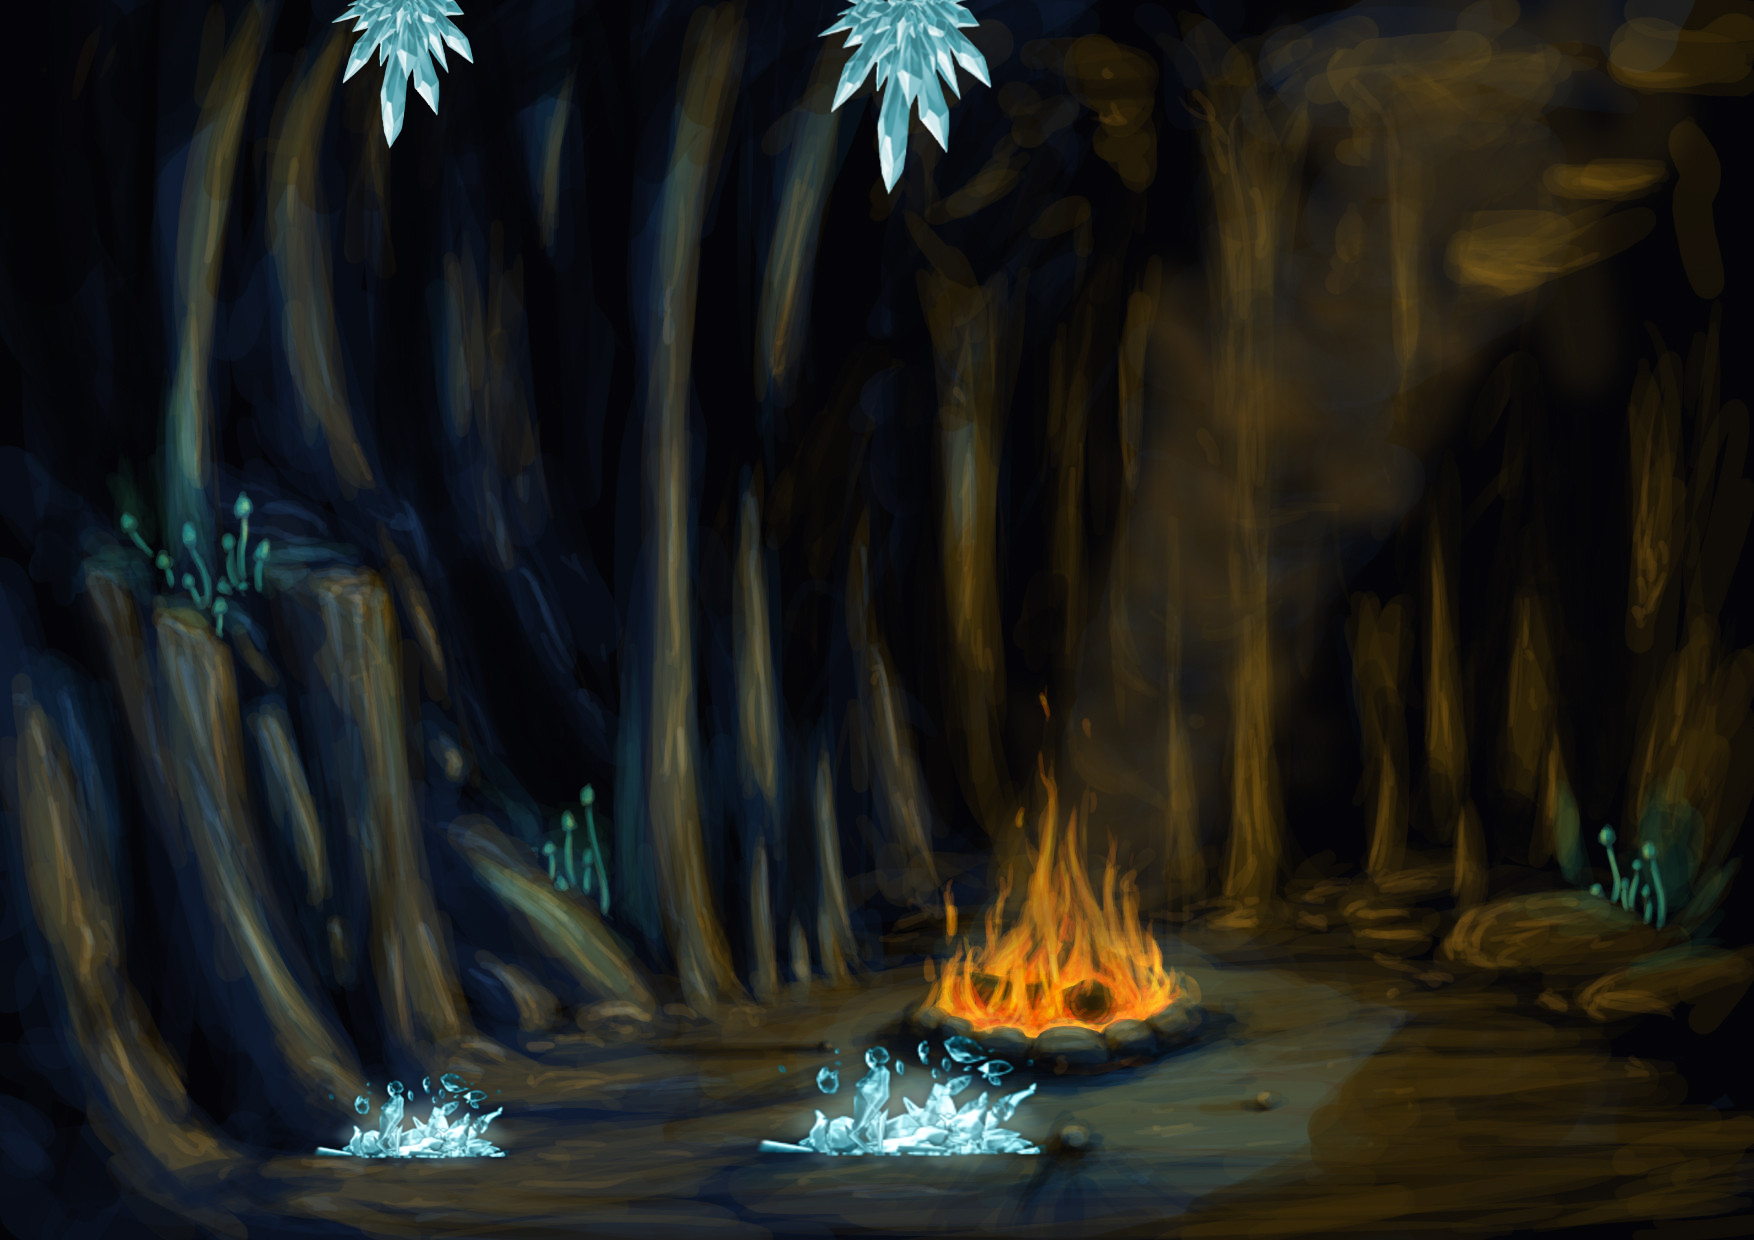
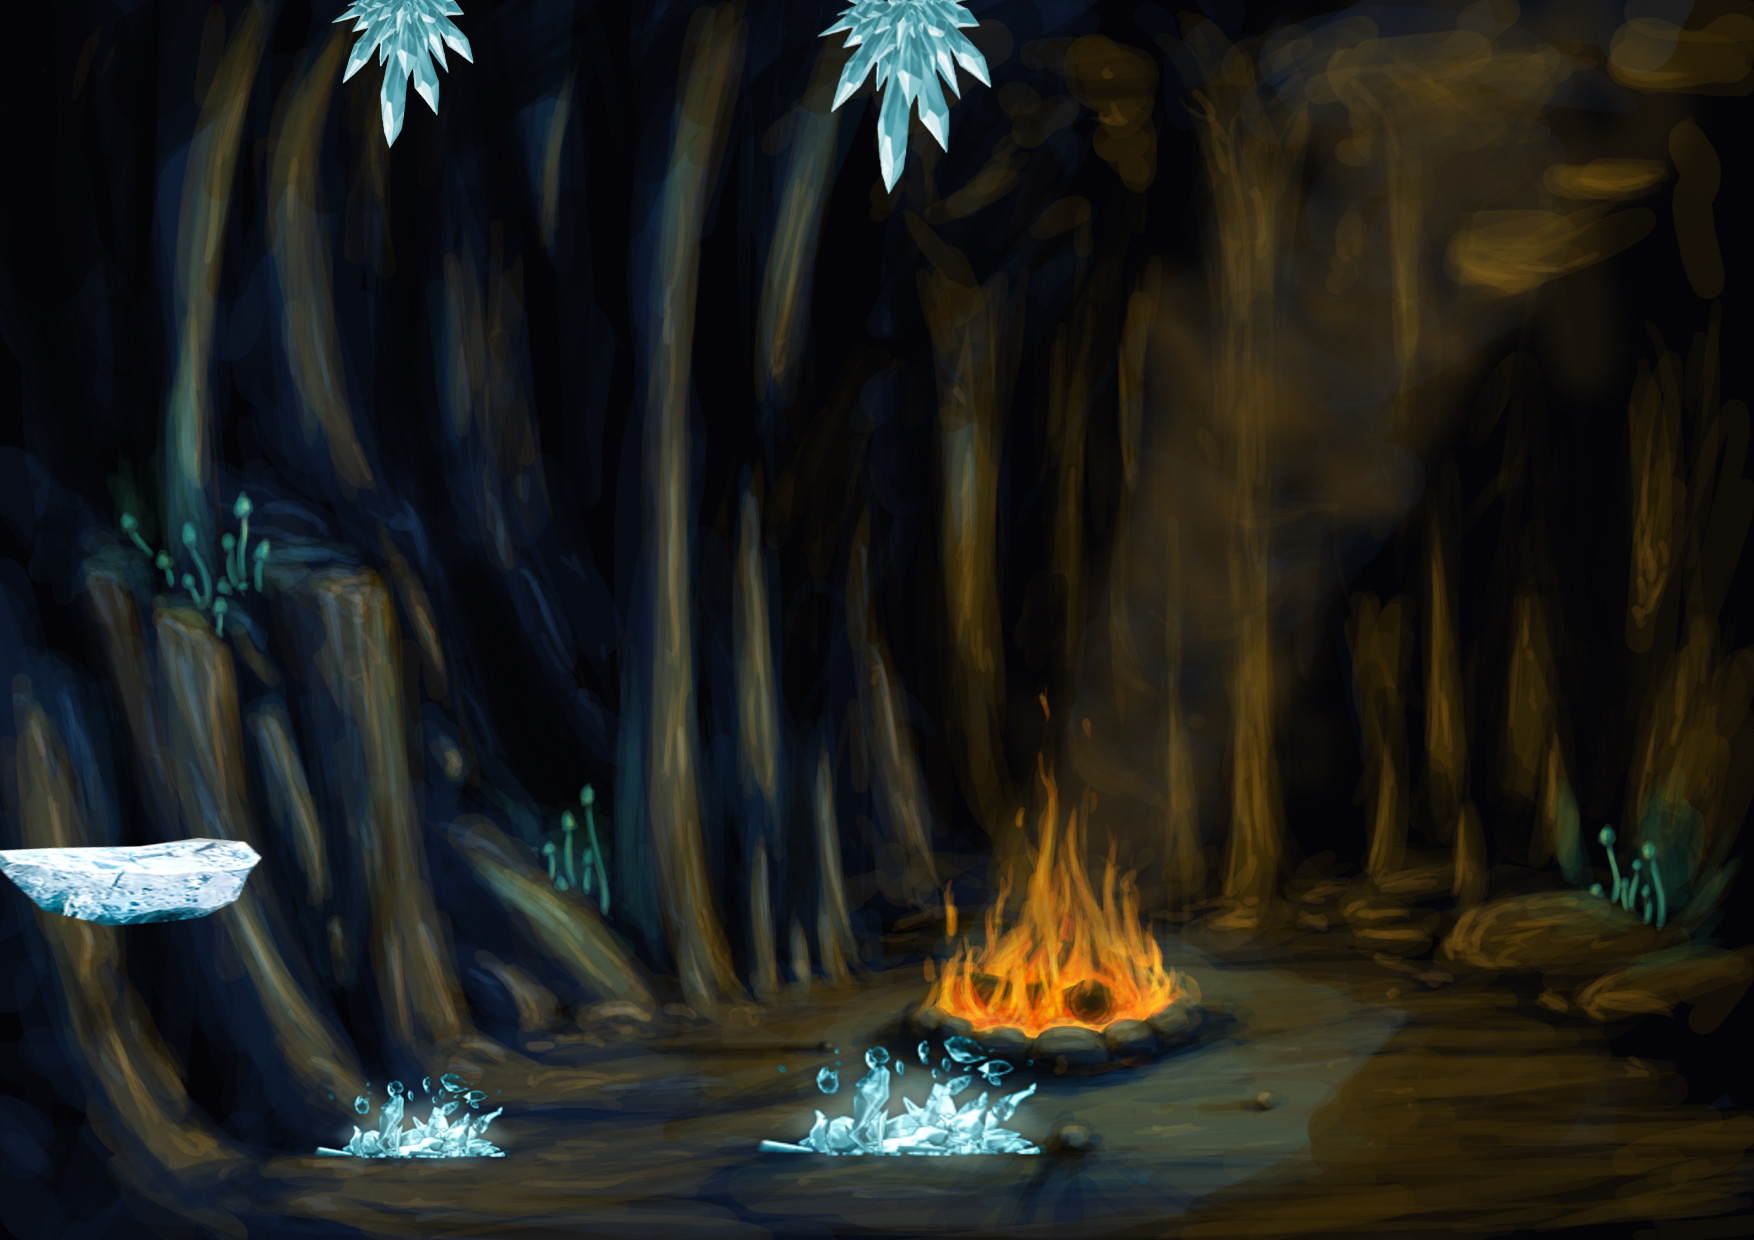
Mejoras Fase 3 Normal y Boss
Mas hielo, mas daño, mas heroes duros

Changed region(s): [[0.0, 0.6742, 0.1539, 0.7661]]

diff --git a/Juego/src/personajes.py b/Juego/src/personajes.py
@@ -51,7 +51,7 @@ VELOCIDAD_SALTO_JUGADOR = 0.3 # Pixeles por milisegundo
 RETARDO_ANIMACION_JUGADOR = 5 # updates que durará cada imagen del personaje
                               # debería de ser un valor distinto para cada postura
 
-VELOCIDAD_ENEMIGO = 0.12 # Pixeles por milisegundo
+VELOCIDAD_ENEMIGO = 0.15 # Pixeles por milisegundo
 VELOCIDAD_SALTO_ENEMIGO = 0.28 # Pixeles por milisegundo
 RETARDO_ANIMACION_ENEMIGO = 5 # updates que durará cada imagen del personaje
                              # debería de ser un valor distinto para cada postura
@@ -154,13 +154,10 @@ class Ice(Objeto):
     def __init__(self,aceleracion):
         Objeto.__init__(self,None)
         self.movimiento = ATACAR
-        #Con esta no
         self.image1 = GestorRecursos.CargarImagen('ObsGigantes222.png',-1)
-        #Con esta hace daño
-        #self.image1 = GestorRecursos.CargarImagen('fireball.png',-1)
         self.image1 = self.image1.convert_alpha()
         self.image = self.image1
-        self.dano = 8
+        self.dano = 6
         self.currentIFrames = 100
         self.retardoAnimacion = 10
         self.bajar = True
@@ -173,13 +170,13 @@ class Ice(Objeto):
         self.rect = self.image.get_rect()
         incrementox = self.velocidad[0]*tiempo
         incrementoy = 0
-        if self.posicion[1] < 600:
+        if self.posicion[1] < 550:
             self.bajar = True
             self.subir = False
-        elif self.posicion[1] > 600:
+        elif self.posicion[1] > 550:
             self.bajar= False
             self.subir = False
-            self.establecerPosicion((self.posicion[0], self.posicion[1]-610))
+            self.establecerPosicion((self.posicion[0], self.posicion[1]-530))
         if self.subir == True :
             incrementoy = self.aceleracion
         if self.bajar == True :
@@ -192,7 +189,8 @@ class Ice(Objeto):
 
     def sacarVida(self,enemigo):
         # No ataca a los enemigos
-        return
+        # Modificado, en vez de dañarlo, sanara al enemigo
+        enemigo.vida = enemigo.vida + self.dano
 
 
 
@@ -829,8 +827,49 @@ class Fase3Boss(NoJugador):
 
     # Aqui vendria la implementacion de la IA segun las posiciones de los jugadores
     # La implementacion de la inteligencia segun este personaje particular
-    def mover_cpu(self, jugador):
-       NoJugador.mover_cpu(self,jugador)
+    def mover_cpu(self, jugador1):
+        global VELOCIDAD_ENEMIGO 
+        VELOCIDAD_ENEMIGO = VELOCIDAD_ENEMIGO + 0.1
+        global VIDA_ENEMIGO 
+        VIDA_ENEMIGO = VIDA_ENEMIGO + 20
+        
+        #Restamos iFrames
+        if self.currentIFrames > 0:
+            self.currentIFrames -= 1
+
+        # Movemos solo a los enemigos que esten en la pantalla
+        if self.rect.left>0 and self.rect.right<ANCHO_PANTALLA and self.rect.bottom>0 and self.rect.top<ALTO_PANTALLA:
+
+            # Por ejemplo, intentara acercarse al jugador mas cercano en el eje x
+            # Miramos cual es el jugador mas cercano
+
+            # Y nos movemos andando hacia el
+            if (jugador1.posicion[0]<self.posicion[0]+40):
+                Personaje.mover(self, IZQUIERDA)
+                self.atacando = False               
+            elif (jugador1.posicion[0]>self.posicion[0]-40):
+                Personaje.mover(self, DERECHA)
+                self.atacando = False  
+
+        
+            # Cuando este cerca atacara
+            if abs(self.posicion[0]-jugador1.posicion[0])<=40:
+                self.atacando = True
+                Personaje.mover(self,ATACAR)
+            else:
+                self.atacando = False
+                if (jugador1.posicion[1] < self.posicion[1]):
+                    if (jugador1.posicion[0]>self.posicion[0]):
+                        Personaje.mover(self, DERECHA)
+                    else: Personaje.mover(self, IZQUIERDA)
+
+        # Si este personaje no esta en pantalla, no hara nada
+        else:
+            Personaje.mover(self,QUIETO)
+
+        VELOCIDAD_ENEMIGO = VELOCIDAD_ENEMIGO - 0.10
+        VIDA_ENEMIGO = VIDA_ENEMIGO - 20
+
 
 
 # -------------------------------------------------

diff --git a/Juego/src/menu.py b/Juego/src/menu.py
@@ -396,9 +396,9 @@ class Menu(Escena):
         self.director.apilarEscena(fase)
 
     def ejecutarFase3(self):
-        #fase = Fase(self.director, 3, getValues(TEXT,'MAX_DISTANCE_3='), getValues(TEXT,'FASE3_FONDO='),getValues(TEXT,'FASE3_FONDO_SCALE='),None, None, getValues(TEXT,'FASE3_POS_JUGADOR='),getValues(TEXT,'FASE3_ENEMIGOS='),getValues(TEXT,'FASE3_ENEMIGOS_POS='),getValues(TEXT,'FASE3_PLATAFORMAS='),None,None,getValues(TEXT,'FASE3_POCIONES='), getValues(TEXT,'FASE3_POS_POCIONES='),None,None,None,None,None,None, False)
+        fase = Fase(self.director, 3, getValues(TEXT,'MAX_DISTANCE_3='), getValues(TEXT,'FASE3_FONDO='),getValues(TEXT,'FASE3_FONDO_SCALE='),None, None, getValues(TEXT,'FASE3_POS_JUGADOR='),getValues(TEXT,'FASE3_ENEMIGOS='),getValues(TEXT,'FASE3_ENEMIGOS_POS='),getValues(TEXT,'FASE3_PLATAFORMAS='),None,None,getValues(TEXT,'FASE3_POCIONES='), getValues(TEXT,'FASE3_POS_POCIONES='),getValues(TEXT,'FASE3_OBSTACULOS=') , getValues(TEXT,'FASE3_OBSTACULOS_POS='), getValues(TEXT,'FASE3_ACELERACION='),None,None,None, False)
         # Boss
-        fase = Fase(self.director, 3, 5000, getValues(TEXT,'FASE3BOSS_FONDO='),getValues(TEXT,'FASE3BOSS_FONDO_SCALE='),getValues(TEXT,'FASE3BOSS_CIELO='),getValues(TEXT,'FASE3BOSS_CIELO_SCALE='),getValues(TEXT,'FASE3BOSS_POS_JUGADOR='),getValues(TEXT,'FASE3BOSS_ENEMIGOS='),getValues(TEXT,'FASE3BOSS_ENEMIGOS_POS='),getValues(TEXT,'FASE3BOSS_PLATAFORMAS='),None,None,None, None, getValues(TEXT,'FASE3_OBSTACULOS_BOSS='), getValues(TEXT,'FASE3_OBSTACULOS_POS_BOSS='),getValues(TEXT,'FASE3_ACELERACION_BOSS='),None,None,None, True)
+        #fase = Fase(self.director, 3, 5000, getValues(TEXT,'FASE3BOSS_FONDO='),getValues(TEXT,'FASE3BOSS_FONDO_SCALE='),getValues(TEXT,'FASE3BOSS_CIELO='),getValues(TEXT,'FASE3BOSS_CIELO_SCALE='),getValues(TEXT,'FASE3BOSS_POS_JUGADOR='),getValues(TEXT,'FASE3BOSS_ENEMIGOS='),getValues(TEXT,'FASE3BOSS_ENEMIGOS_POS='),getValues(TEXT,'FASE3BOSS_PLATAFORMAS='),None,None,getValues(TEXT, 'FASE3_POCIONES_BOSS='), getValues(TEXT, 'FASE3_POS_POCIONES_BOSS='), getValues(TEXT,'FASE3_OBSTACULOS_BOSS='), getValues(TEXT,'FASE3_OBSTACULOS_POS_BOSS='),getValues(TEXT,'FASE3_ACELERACION_BOSS='),None,None,None, True)
         self.director.apilarEscena(fase)
 
     def ejecutarFase4(self):
@@ -412,6 +412,10 @@ class Menu(Escena):
 
     '''
     # Para una unica escena
+
+
+
+    
     def ejecutarJuego(self):
         # Creamos la escena con la animacion antes de jugar
         escena = EscenaAnimacion(self.director)
